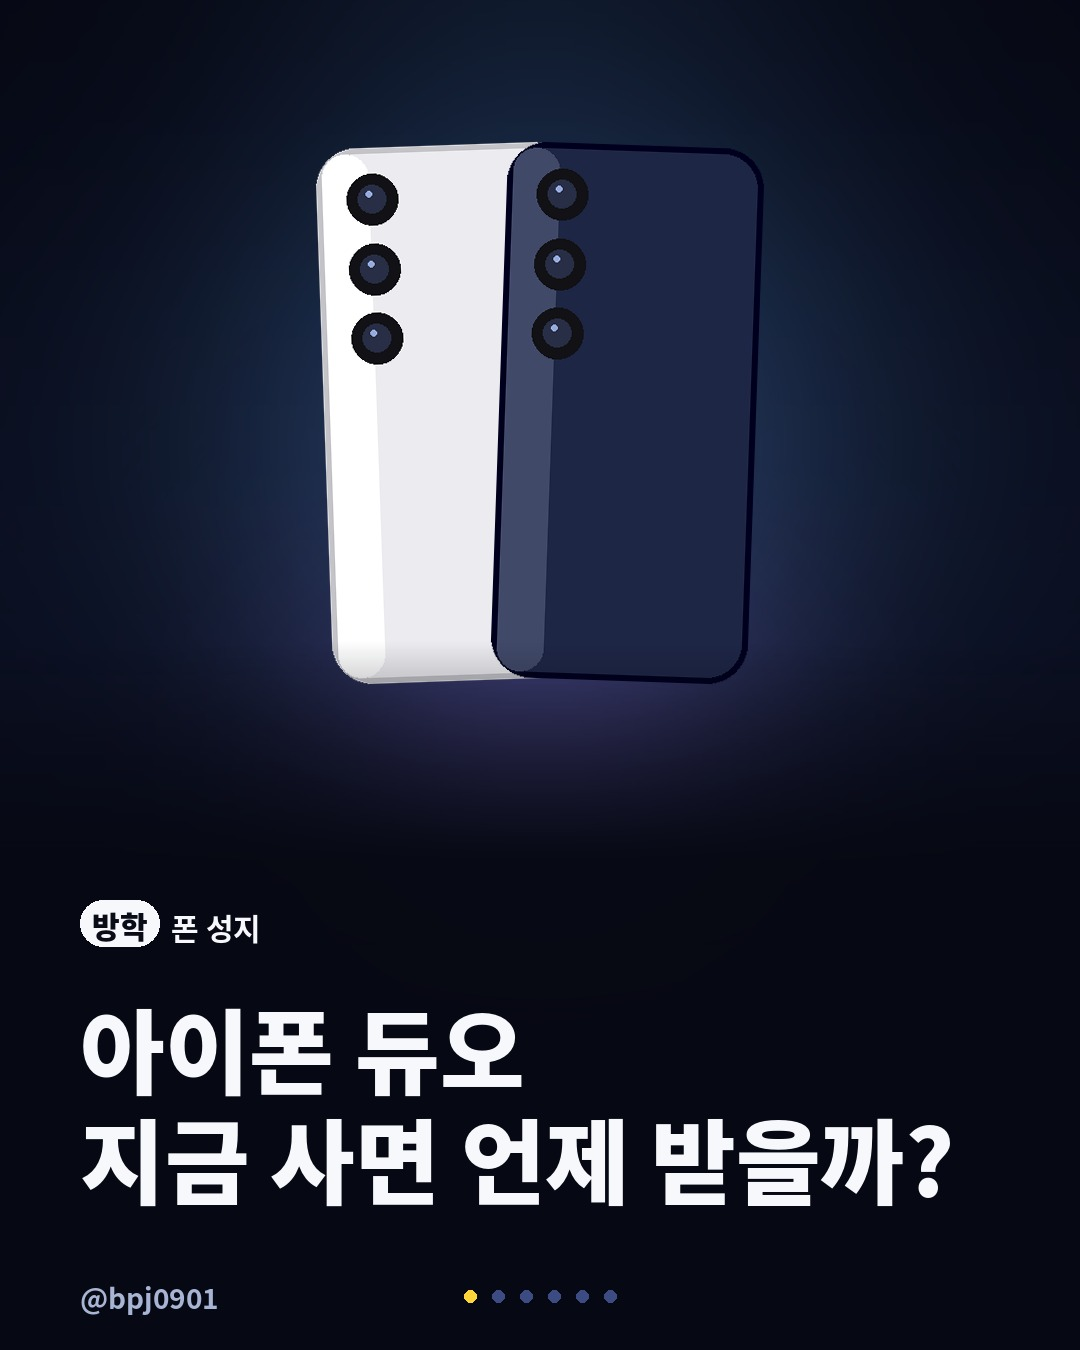
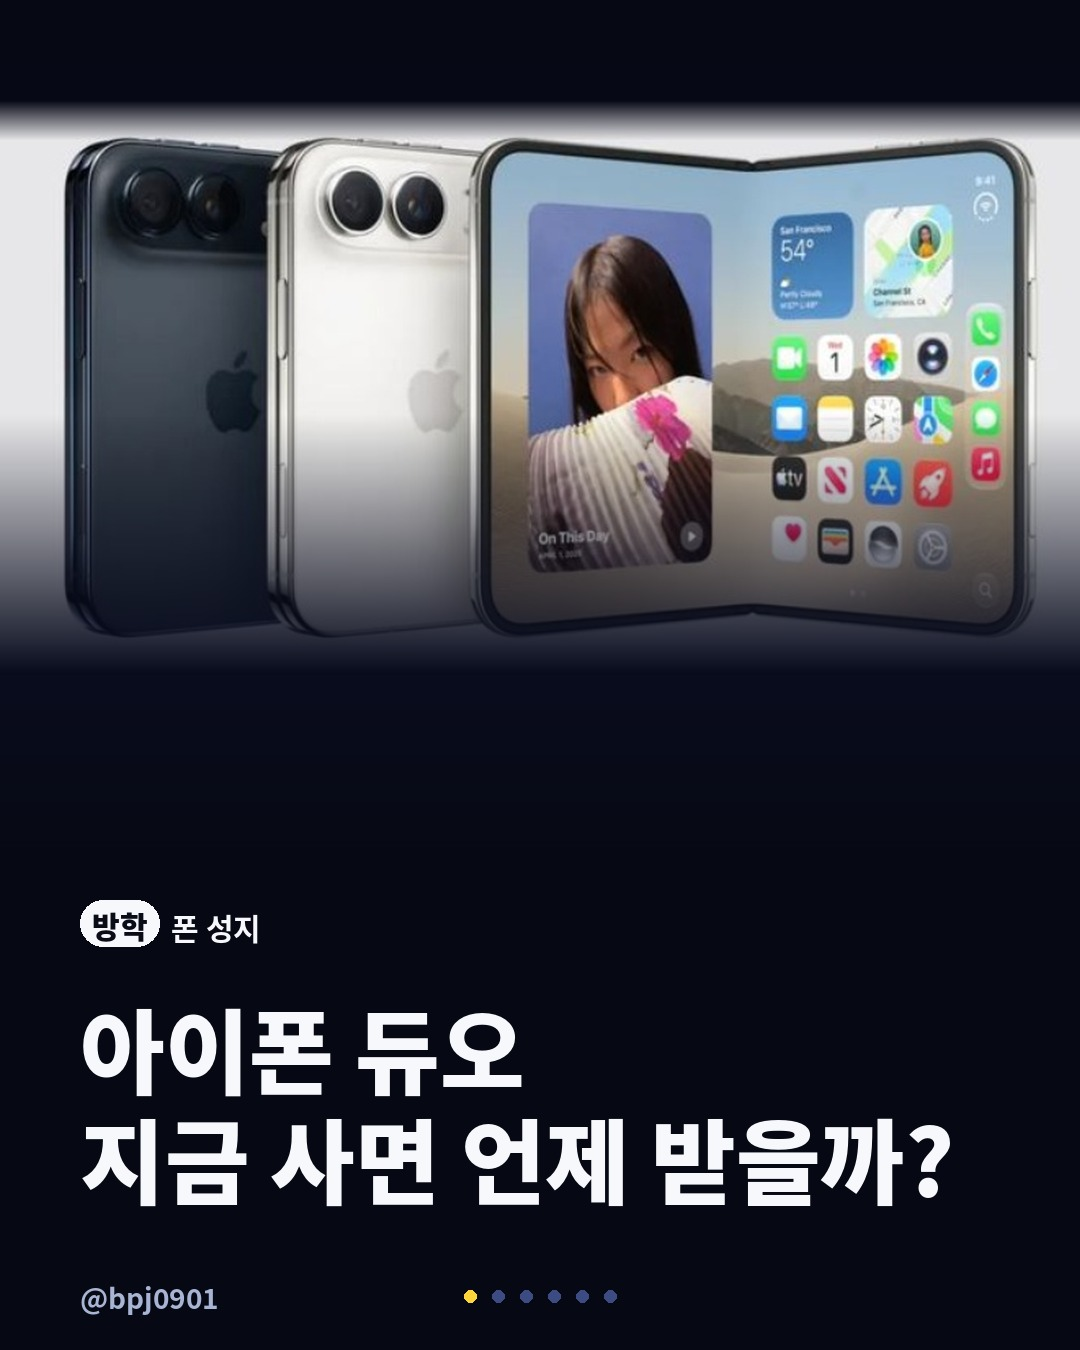
12시 카드뉴스: 사용자 제공 사진 반영, 사진 비주얼 지원
Claude-Session: https://claude.ai/code/session_01VQQ9ZYNrZeGaHthLbSRM4d

diff --git a/tools/render.py b/tools/render.py
@@ -289,9 +289,55 @@ def stage(img, top=0, bottom=760, glow_col=None):
     glow(img, W // 2, bottom - 40, 300, (180, 120, 255), 70)
 
 
+BASE_DIR = "."
+
+
+def photo(img, v):
+    """사용자가 준 사진을 위쪽에 가로 띠로 배치하고 아래를 배경에 녹인다. overlay 가 있으면 큰 글자를 얹는다."""
+    src = Image.open(os.path.join(BASE_DIR, v["src"])).convert("RGB")
+    top = v.get("top", 120)
+    maxh = v.get("max_h", 700)
+    w = W
+    h = int(src.height * w / src.width)
+    if h > maxh:  # 너무 세로로 길면 가운데를 잘라낸다
+        src = src.crop((0, (src.height - int(maxh * src.width / w)) // 2, src.width,
+                        (src.height + int(maxh * src.width / w)) // 2))
+        h = maxh
+    p = src.resize((w, h), Image.LANCZOS)
+    if v.get("overlay"):
+        p = Image.blend(p, Image.new("RGB", p.size, (6, 8, 20)), 0.45)
+    mask = Image.new("L", (w, h), 255)
+    md = ImageDraw.Draw(mask)
+    fade = min(260, h // 2)
+    for yy in range(h - fade, h):
+        md.line([(0, yy), (w, yy)], fill=int(255 * (h - yy) / fade))
+    for yy in range(0, 40):
+        md.line([(0, yy), (w, yy)], fill=int(255 * yy / 40))
+    img.paste(p, (0, top), mask)
+    o = v.get("overlay")
+    if o:
+        d = ImageDraw.Draw(img)
+        f = font("black", o.get("size", 190))
+        t = o["text"]; tw = d.textlength(t, font=f)
+        if tw > W - 120:
+            f = font("black", int(f.size * (W - 120) / tw)); tw = d.textlength(t, font=f)
+        cy = top + h // 2 - 40
+        col = tuple(o.get("color", C["accent"]))
+        for dx, dy in ((4, 4), (3, 3)):
+            d.text(((W - tw) / 2 + dx, cy - f.size * 0.62 + dy), t, font=f, fill=(0, 0, 0))
+        d.text(((W - tw) / 2, cy - f.size * 0.62), t, font=f, fill=col)
+        if o.get("sub"):
+            fs = font("bold", 46)
+            sw = d.textlength(o["sub"], font=fs); sy = cy + f.size * 0.62
+            d.rounded_rectangle([(W - sw) / 2 - 22, sy - 8, (W + sw) / 2 + 22, sy + 66], 20, fill=(6, 8, 20))
+            d.text(((W - sw) / 2, sy), o["sub"], font=fs, fill=C["text"])
+
+
 def visual(img, v):
-    """v: {"kind": "phones"|"phone"|"big"|"badges"|"sms", ...}"""
+    """v: {"kind": "phones"|"phone"|"big"|"badges"|"sms"|"photo", ...}"""
     k = v.get("kind", "big")
+    if k == "photo":
+        return photo(img, v)
     d = ImageDraw.Draw(img)
     if k == "phones":
         cols = [tuple(c) for c in v.get("colors", [[40, 42, 48], [235, 190, 180], [90, 130, 220], [190, 170, 230], [235, 236, 240]])]
@@ -423,7 +469,9 @@ R3 = {"hero": render_hero, "point": render_point, "follow": render_follow}
 
 
 def main(cfg_path, out):
+    global BASE_DIR
     cfg = json.load(open(cfg_path, encoding="utf-8"))
+    BASE_DIR = os.path.dirname(os.path.abspath(cfg_path))
     os.makedirs(out, exist_ok=True)
     slides = cfg["slides"]
     for f in os.listdir(out):
